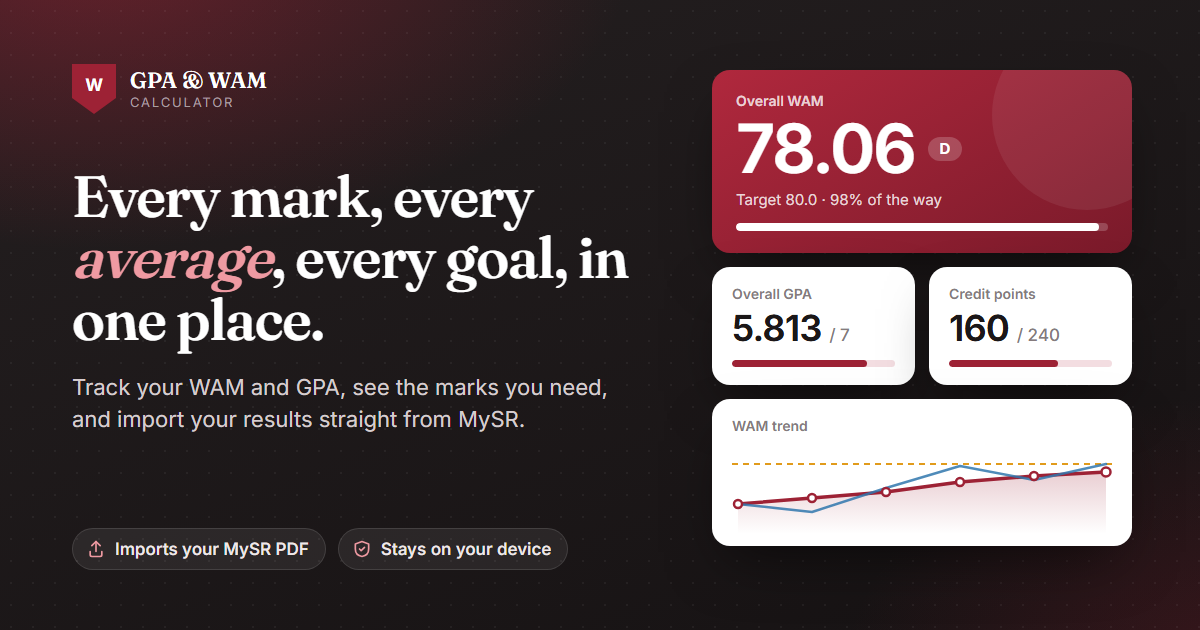
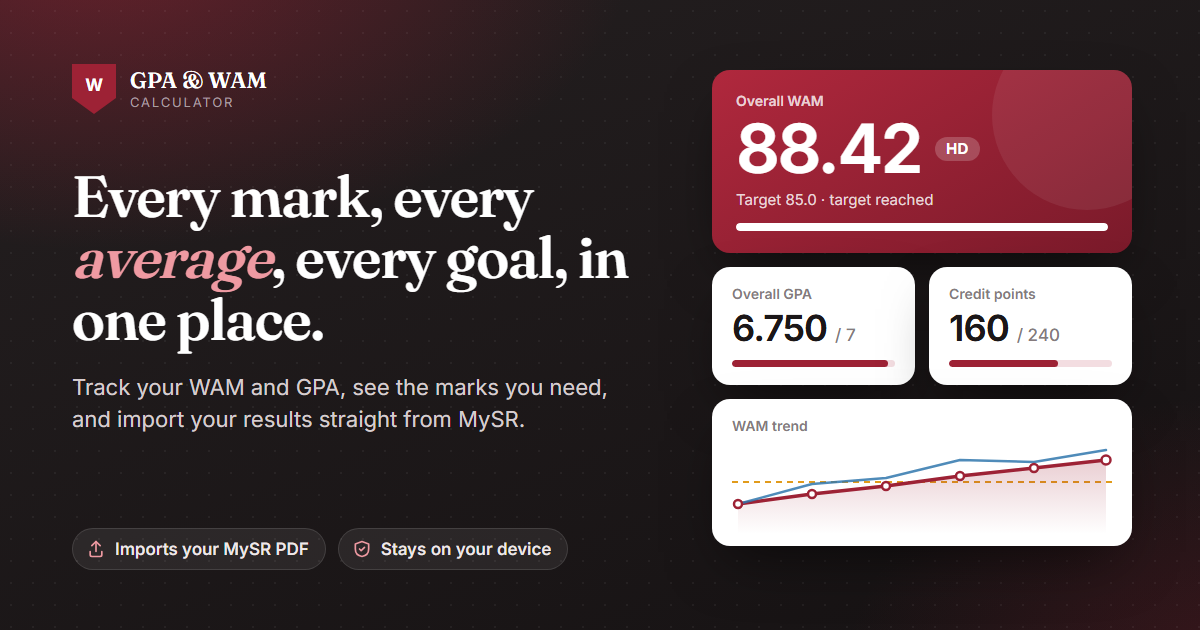
Show stronger sample results in the share image
The cover image now shows an HD WAM of 88.42 that has reached its 85 target and a GPA of 6.750, with the trend line rising above the target. The image address carries a version number so link previews fetch the new picture instead of a cached one.

diff --git a/index.html b/index.html
@@ -11,7 +11,7 @@
   <meta property="og:title" content="GPA &amp; WAM Calculator">
   <meta property="og:description" content="Track your WAM and GPA, plan the marks you need and import your results straight from a MySR PDF. Everything stays on your device.">
   <meta property="og:url" content="https://kyosukeamagiri.github.io/gpa-wam-calc/">
-  <meta property="og:image" content="https://kyosukeamagiri.github.io/gpa-wam-calc/assets/og-image.png">
+  <meta property="og:image" content="https://kyosukeamagiri.github.io/gpa-wam-calc/assets/og-image.png?v=2">
   <meta property="og:image:type" content="image/png">
   <meta property="og:image:width" content="1200">
   <meta property="og:image:height" content="630">
